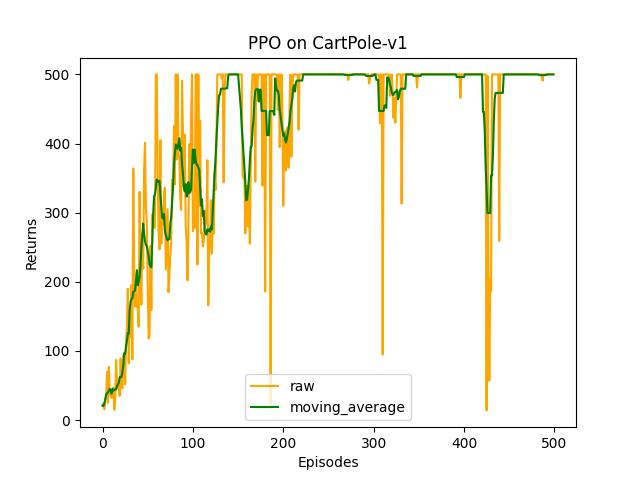
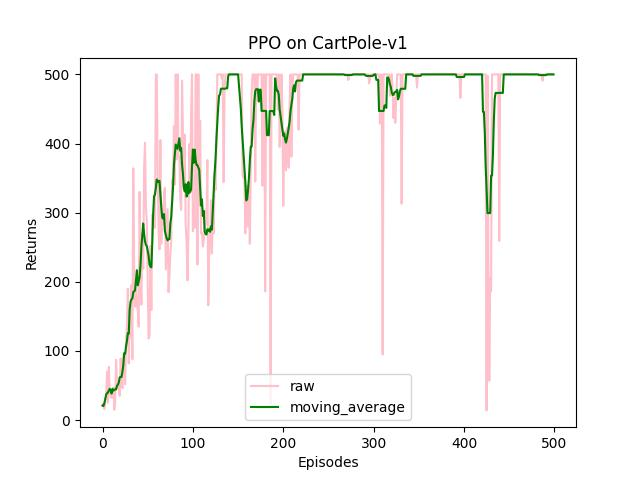
研究 PPO

diff --git a/simple-implementation/ppo-discrete.py b/simple-implementation/ppo-discrete.py
@@ -50,6 +50,8 @@ import pprint
 
 import gymnasium as gym
 import torch
+import pickle
+import os
 import torch.nn.functional as F
 import numpy as np
 import matplotlib.pyplot as plt
@@ -139,6 +141,7 @@ class PPO:
 actor_lr = 1e-3
 critic_lr = 1e-2
 num_episodes = 500
+# num_episodes = 50
 hidden_dim = 128
 gamma = 0.98
 lmbda = 0.95
@@ -148,7 +151,7 @@ device = torch.device("cuda") if torch.cuda.is_available() else torch.device(
     "cpu")
 
 env_name = 'CartPole-v1'
-env = gym.make(env_name)
+env = gym.make(env_name, render_mode='rgb_array')
 env.reset(seed=0)
 torch.manual_seed(0)
 state_dim = env.observation_space.shape[0]
@@ -162,10 +165,35 @@ print(return_list[-1])
 
 episodes_list = list(range(len(return_list)))
 mv_return = rl_utils.moving_average(return_list, 9)
-plt.plot(episodes_list, return_list, color='orange', label='raw')
+plt.plot(episodes_list, return_list, color='pink', label='raw')
 plt.plot(episodes_list, mv_return, color='green', label='moving_average')
 plt.xlabel('Episodes')
 plt.ylabel('Returns')
 plt.title('PPO on {}'.format(env_name))
 plt.legend()
 plt.savefig('./docs/_static/images/simple-implementation/ppo-discrete-returns.jpg')
+
+temp_path = "./temp"
+if not os.path.exists(temp_path):
+    os.makedirs(temp_path, exist_ok=True)
+
+with open(os.path.join(temp_path, 'ppo.pickle'), 'wb') as f:
+    pickle.dump(agent, f)
+
+with open(os.path.join(temp_path, 'ppo.pickle'), 'rb') as f:
+    best_agent = pickle.load(f)
+
+state, info = env.reset()
+
+frames = []
+
+for step in range(500):
+    action = best_agent.take_action(state)
+    state, reward, terminated, truncated, info = env.step(action)
+    if terminated or truncated:
+        break
+    img = env.render()
+    frames.append(img)
+    
+anim = rl_utils.plot_animation(frames)
+anim.save('./docs/_static/images/simple-implementation/play-ppo-discrete.gif', writer='pillow')

diff --git a/simple-implementation/rl_utils.py b/simple-implementation/rl_utils.py
@@ -19,6 +19,8 @@ import numpy as np
 import torch
 import collections
 import random
+import matplotlib.pyplot as plt
+import matplotlib.animation as animation
 
 ######################################################################
 # --------------
@@ -139,3 +141,17 @@ def compute_advantage(gamma, lmbda, td_delta):
         advantage_list.append(advantage)
     advantage_list.reverse()
     return torch.tensor(np.array(advantage_list), dtype=torch.float)
+
+def update_scene(num, frames, patch):
+    patch.set_data(frames[num])
+    return patch,
+
+def plot_animation(frames, repeat=False, interval=40):
+    fig = plt.figure()
+    patch = plt.imshow(frames[0])
+    plt.axis('off')
+    anim = animation.FuncAnimation(
+        fig, update_scene, fargs=(frames, patch),
+        frames=len(frames), repeat=repeat, interval=interval)
+    plt.close()
+    return anim

diff --git a/README.md b/README.md
@@ -306,4 +306,12 @@ $ python3 test/discrete/test_pg.py --seed 0 --render 0.03
 
 [31] [gymnasium.Env.reset](https://gymnasium.farama.org/api/env/#gymnasium.Env.reset)
 
+[32] [python之matplotlib画图教程(3)--如何画动图](https://zhuanlan.zhihu.com/p/72589083)
+
+[33] [pickle.html#examples](https://docs.python.org/zh-cn/3/library/pickle.html#examples)
+
+[34] [gymnasium.Env.render](https://gymnasium.farama.org/api/env/#gymnasium.Env.render)
+
+[35] [ageron/handson-ml2/blob/master/18_reinforcement_learning](https://github.com/ageron/handson-ml2/blob/master/18_reinforcement_learning.ipynb)
+
 </p></details>
